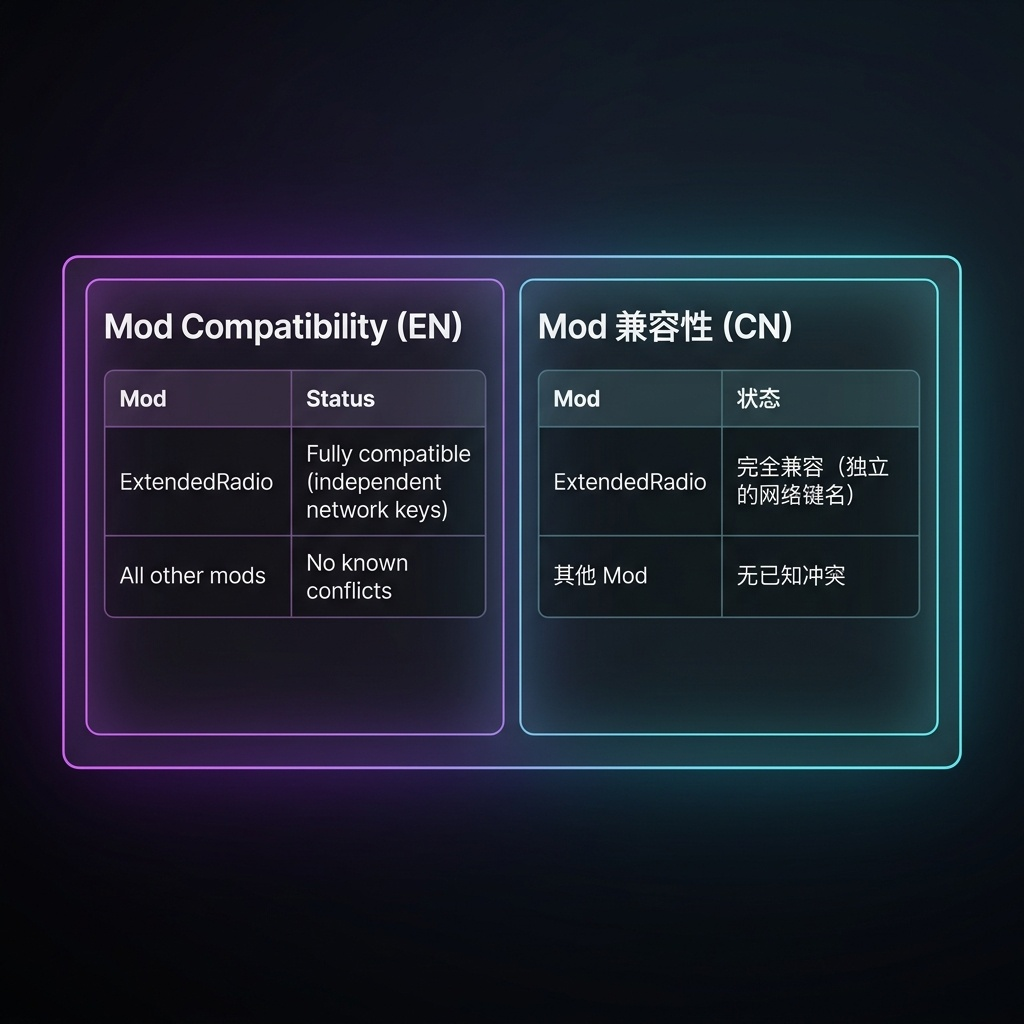
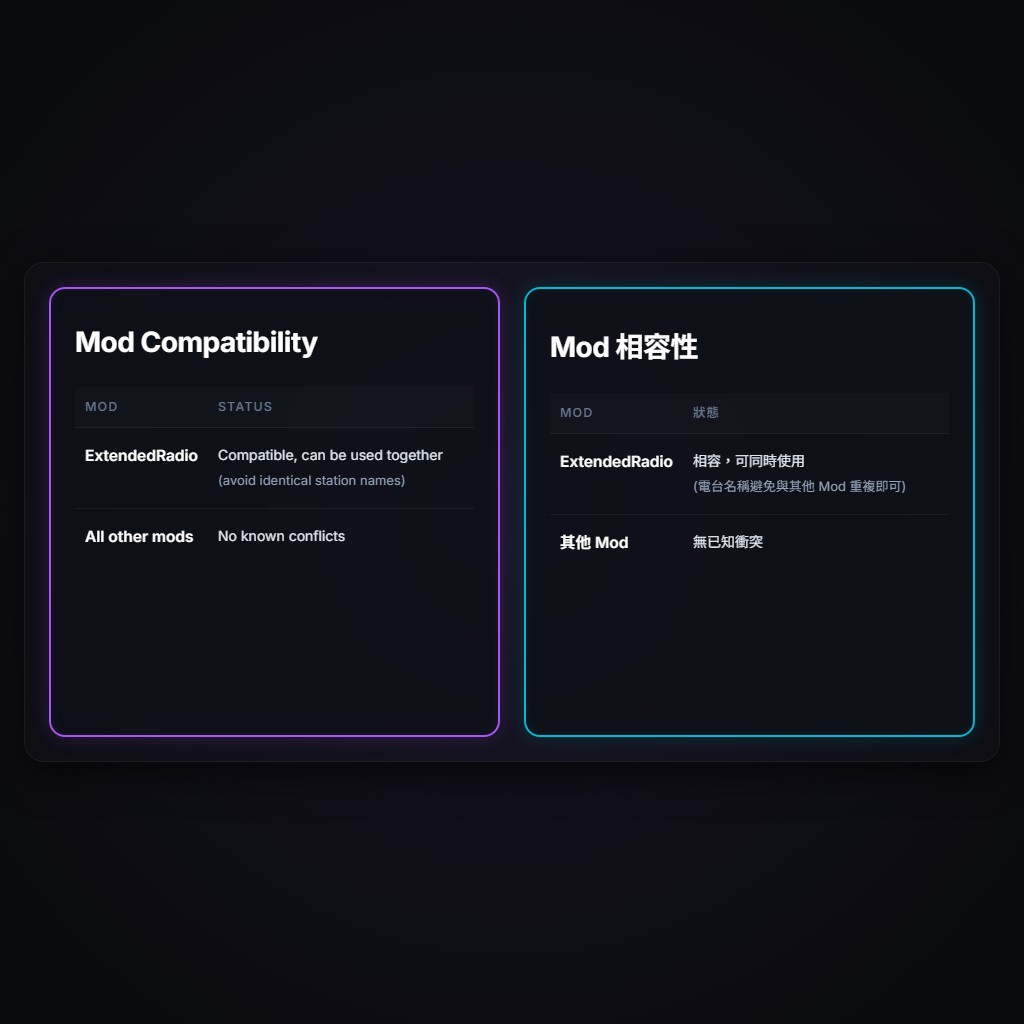
feat: initialize SimpleRadio mod structure with core logic, localization, and documentation

diff --git a/SimpleRadio/Settings/LocaleHANT.cs b/SimpleRadio/Settings/LocaleHANT.cs
@@ -1,0 +1,89 @@
+using Colossal;
+using System.Collections.Generic;
+
+namespace SimpleRadio.Settings
+{
+    public class LocaleHANT : IDictionarySource
+    {
+        private readonly ModSettings m_Setting;
+
+        public LocaleHANT(ModSettings setting)
+        {
+            m_Setting = setting;
+        }
+
+        public IEnumerable<KeyValuePair<string, string>> ReadEntries(
+            IList<IDictionaryEntryError> errors,
+            Dictionary<string, int> indexCounts)
+        {
+            return new Dictionary<string, string>
+            {
+                // === Mod 名稱 ===
+                { m_Setting.GetSettingsLocaleID(), "SimpleRadio 簡易電台" },
+
+                // === Tab ===
+                { m_Setting.GetOptionTabLocaleID(ModSettings.kTabInfo), "資訊" },
+                { m_Setting.GetOptionTabLocaleID(ModSettings.kTabFormat), "格式" },
+
+                // === Group: Status ===
+                { m_Setting.GetOptionGroupLocaleID(ModSettings.kGroupStatus), "狀態" },
+
+                { m_Setting.GetOptionLabelLocaleID(nameof(ModSettings.StationInfo)), "已載入電台數" },
+                { m_Setting.GetOptionDescLocaleID(nameof(ModSettings.StationInfo)),
+                    "在資料目錄中偵測到的自訂電台數量。" },
+
+                { m_Setting.GetOptionLabelLocaleID(nameof(ModSettings.SongInfo)), "已載入歌曲數" },
+                { m_Setting.GetOptionDescLocaleID(nameof(ModSettings.SongInfo)),
+                    "所有電台中載入的音訊檔案總數。" },
+
+                { m_Setting.GetOptionLabelLocaleID(nameof(ModSettings.DataPath)), "資料目錄" },
+                { m_Setting.GetOptionDescLocaleID(nameof(ModSettings.DataPath)),
+                    "SimpleRadio 資料目錄路徑。在此處建立子資料夾並放入音訊檔案（.ogg、.mp3、.wav）即可新增自訂電台。" },
+
+                // === Group: Actions ===
+                { m_Setting.GetOptionGroupLocaleID(ModSettings.kGroupActions), "操作" },
+
+                { m_Setting.GetOptionLabelLocaleID(nameof(ModSettings.OpenDataFolder)), "開啟資料目錄" },
+                { m_Setting.GetOptionDescLocaleID(nameof(ModSettings.OpenDataFolder)),
+                    "在 Windows 檔案總管中開啟 SimpleRadio 資料目錄。\n\n" +
+                    "新增自訂電台的步驟：\n" +
+                    "1. 建立一個子資料夾（資料夾名稱即為電台名稱）\n" +
+                    "2. 將音訊檔案放入資料夾（.ogg、.mp3、.wav）\n" +
+                    "3. 可選：新增 icon.svg 作為電台圖示\n" +
+                    "4. 點擊「刷新電台」或重啟遊戲即可生效" },
+
+                { m_Setting.GetOptionLabelLocaleID(nameof(ModSettings.RefreshStations)), "♫ 刷新電台" },
+                { m_Setting.GetOptionDescLocaleID(nameof(ModSettings.RefreshStations)),
+                    "重新掃描資料目錄並載入所有自訂電台，無需重啟遊戲。\n\n" +
+                    "在資料目錄中新增或刪除音訊檔案後，點擊此按鈕即可刷新。" },
+
+                // === Group: Formats ===
+                { m_Setting.GetOptionGroupLocaleID(ModSettings.kGroupFormats), "音訊格式" },
+
+                { m_Setting.GetOptionLabelLocaleID(nameof(ModSettings.EnableMP3)), "啟用 MP3 支援" },
+                { m_Setting.GetOptionDescLocaleID(nameof(ModSettings.EnableMP3)),
+                    "允許載入 .mp3 音訊檔案。\n\n" +
+                    "MP3 格式廣泛支援，運作穩定可靠。需要重啟遊戲生效。" },
+
+                { m_Setting.GetOptionLabelLocaleID(nameof(ModSettings.EnableWAV)), "啟用 WAV 支援" },
+                { m_Setting.GetOptionDescLocaleID(nameof(ModSettings.EnableWAV)),
+                    "允許載入 .wav 音訊檔案。\n\n" +
+                    "注意：WAV 是無壓縮格式，檔案體積通常是 OGG/MP3 的 10 倍（每首約 30-50 MB）。" +
+                    "可能顯著增加磁碟佔用，且在傳統硬碟（HDD）上切歌時可能出現短暫卡頓。\n\n" +
+                    "建議：將 WAV 轉換為 OGG 或 MP3 以獲得更好的效能。\n\n" +
+                    "需要重啟遊戲生效。" },
+
+                // === Group: Compatibility ===
+                { m_Setting.GetOptionGroupLocaleID(ModSettings.kGroupCompat), "相容性" },
+
+                { m_Setting.GetOptionLabelLocaleID(nameof(ModSettings.ExtendedRadioStatus)), "ExtendedRadio" },
+                { m_Setting.GetOptionDescLocaleID(nameof(ModSettings.ExtendedRadioStatus)),
+                    "顯示是否偵測到 ExtendedRadio。\n\n" +
+                    "無論是否安裝 ExtendedRadio，SimpleRadio 都可獨立運行，兩者可同時使用、互不衝突。\n\n" +
+                    "若其他電台 Mod 在載入時出錯，SimpleRadio 會自動攔截，確保遊戲電台正常可用。" },
+            };
+        }
+
+        public void Unload() { }
+    }
+}

diff --git a/SimpleRadio/Mod.cs b/SimpleRadio/Mod.cs
@@ -47,6 +47,7 @@ namespace SimpleRadio
                 Settings.RegisterInOptionsUI();
                 GameManager.instance.localizationManager.AddSource("en-US", new LocaleEN(Settings));
                 GameManager.instance.localizationManager.AddSource("zh-HANS", new LocaleHANS(Settings));
+                GameManager.instance.localizationManager.AddSource("zh-HANT", new LocaleHANT(Settings));
                 AssetDatabase.global.LoadSettings(ModName, Settings, new ModSettings(this));
 
                 // 2. 解析 Mod 部署目录（通过游戏官方 API，适配本地和 PDX 订阅环境）

diff --git a/SimpleRadio/README.md b/SimpleRadio/README.md
@@ -61,7 +61,7 @@ Open **Options > SimpleRadio** to access:
 
 ## Compatibility
 
-- **ExtendedRadio** — ✅ Fully compatible (independent network keys)
+- **ExtendedRadio** — ✅ Compatible, can be used together (just avoid identical station names)
 - **All other mods** — ✅ No known conflicts
 
 SimpleRadio runs fully standalone — its audio format support only applies to its own stations, so it behaves the same whether ExtendedRadio is installed or not. As an extra safeguard, if another radio mod crashes while stations are loading, SimpleRadio catches the error so the game's radio keeps working.
@@ -140,8 +140,8 @@ SimpleRadio runs fully standalone — its audio format support only applies to i
 
 ## 兼容性
 
-- **ExtendedRadio** — ✅ 完全兼容（独立的网络键名）
-- **其他 mod** — ✅ 无已知冲突
+- **ExtendedRadio** — ✅ 相容，可同時使用（電台名稱避免與其他 Mod 重複即可）
+- **其他 mod** — ✅ 無已知衝突
 
 SimpleRadio 完全獨立運行——其音訊格式支援僅作用於自身電台，無論是否安裝 ExtendedRadio，行為都完全一致。此外還有一層保險：若其他電台 Mod 在載入電台時出錯，SimpleRadio 會自動攔截該錯誤，確保遊戲電台持續正常運作。
 
